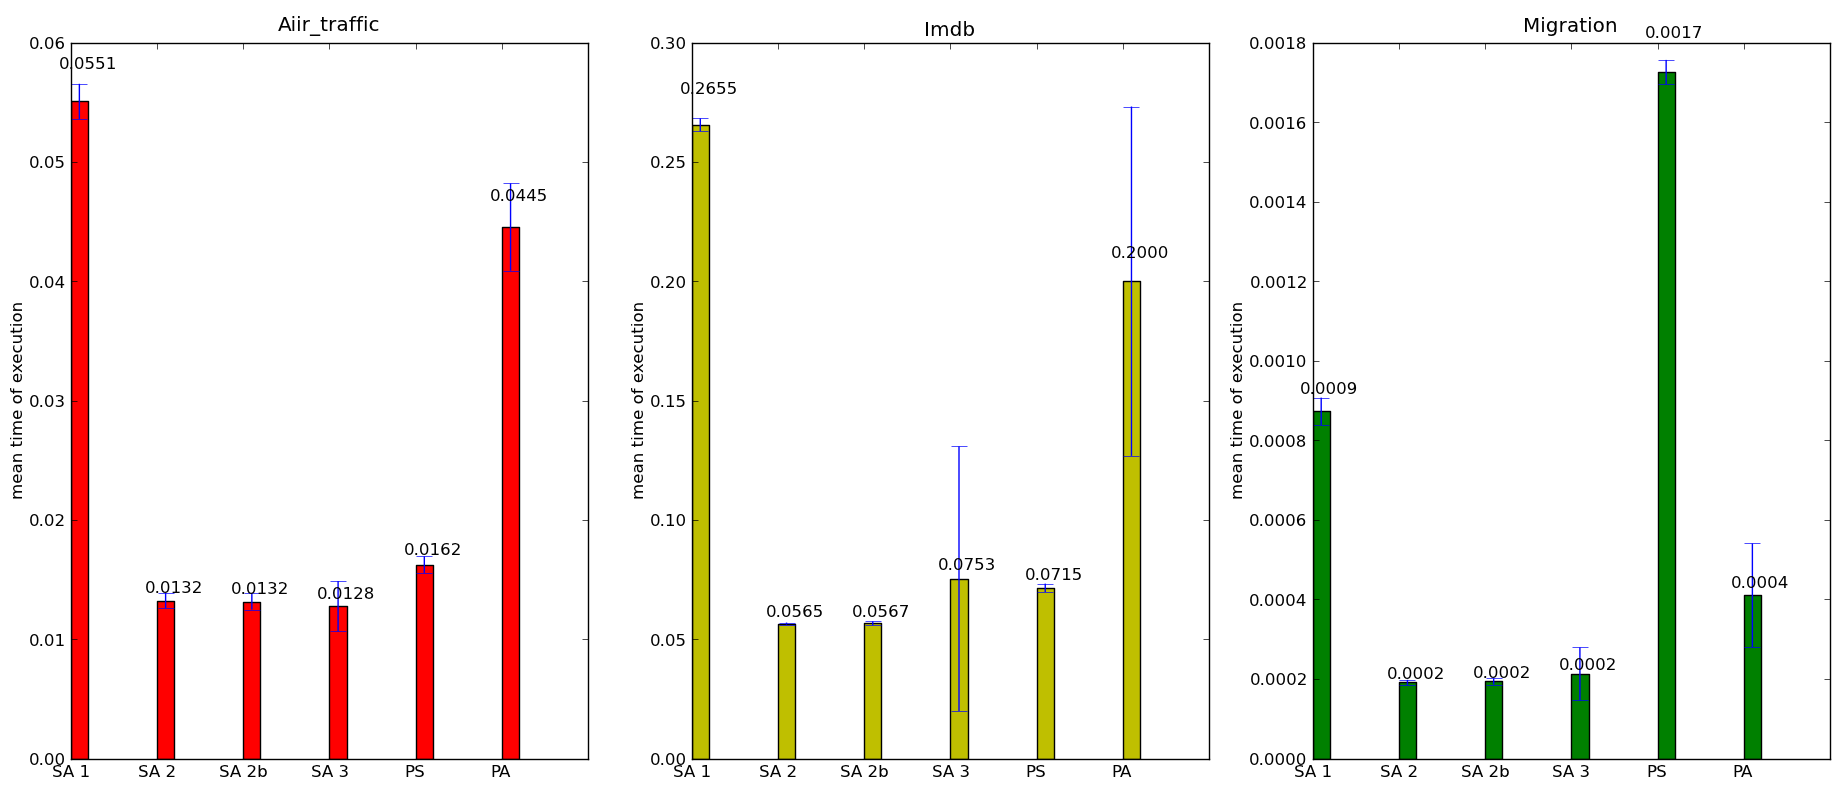
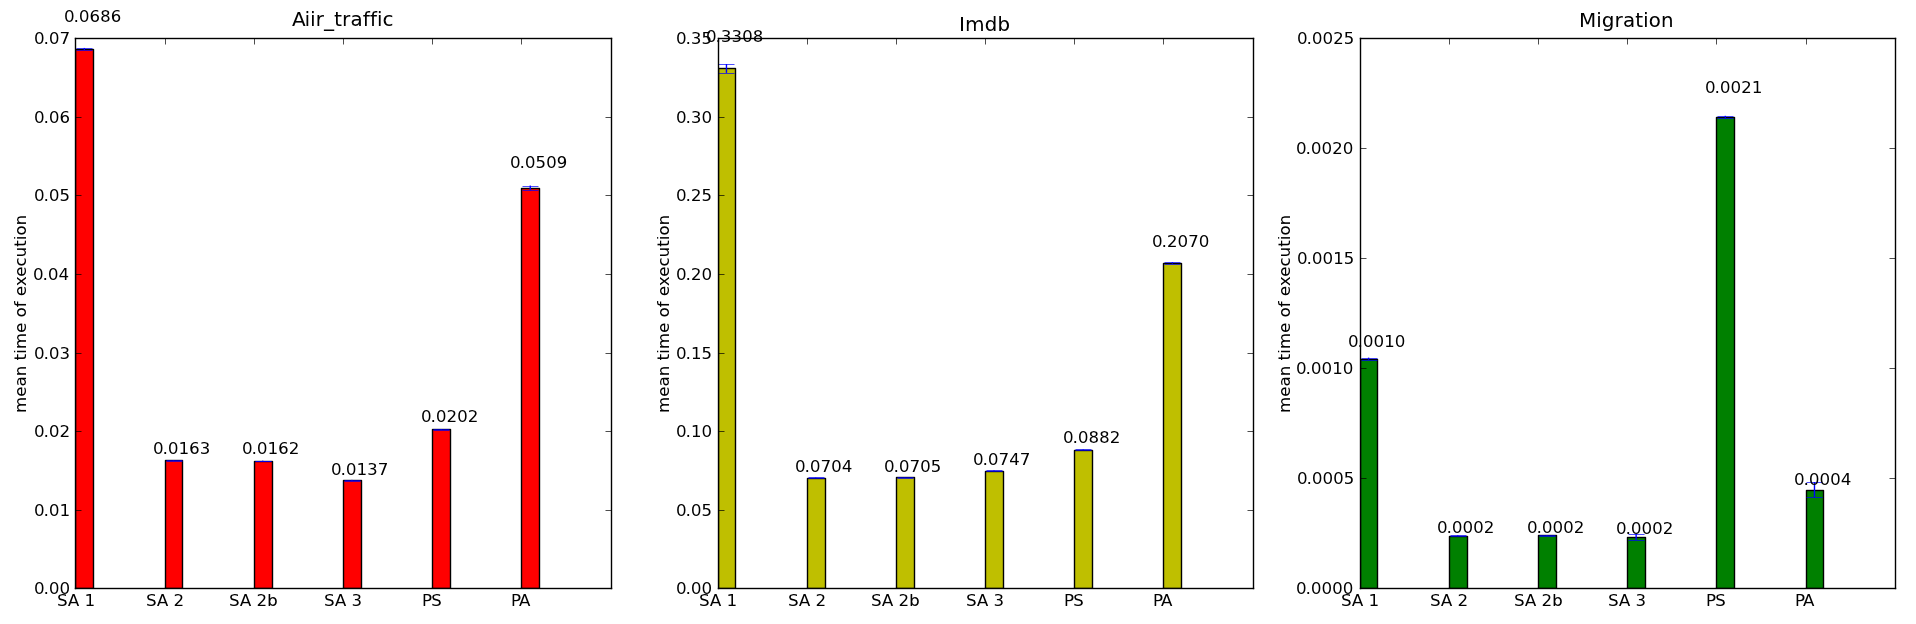
Rapport : modification de l'histogramme (fabriqué avec la vrai simulation cette fois) Src : ajout de la sauvegarde du log du benchmark

diff --git a/src/histogramme.py b/src/histogramme.py
@@ -3,14 +3,14 @@ import numpy as np
 import matplotlib.pyplot as plt
 
 N = 6
-menMeans = (0.0550621, 0.0132359, 0.013154, 0.0127567, 0.0162488, 0.044538, )
-menStd = (0.00147655, 0.000644819, 0.000672862, 0.00211036, 0.000691535, 0.00365513, )
+menMeans = (0.068634, 0.0162732, 0.0162326, 0.0137414, 0.0202103, 0.050945, )
+menStd = (0.000134027, 2.48238e-05, 2.15133e-05, 5.20517e-05, 4.77279e-05, 0.000306196, )
 
-menMeans2 = (0.26552, 0.0565255, 0.0566587, 0.0753496, 0.0715155, 0.199985, )
-menStd2 = (0.00270784, 0.000429853, 0.000815052, 0.0554412, 0.00174922, 0.0731905, )
+menMeans2 = (0.330761, 0.0703849, 0.0705067, 0.074734, 0.0882206, 0.207048, )
+menStd2 = (0.00280537, 0.000108425, 6.23691e-05, 0.000228272, 0.000153175, 0.000457334, )
 
-menMeans3 = (0.000872804, 0.000191297, 0.00019374, 0.000212658, 0.0017259, 0.000410442, )
-menStd3 = (3.43957e-05, 6.44661e-06, 7.71777e-06, 6.65779e-05, 3.03403e-05, 0.000130155, )
+menMeans3 = (0.0010435, 0.000238641, 0.000240193, 0.000233299, 0.00214291, 0.000448204, )
+menStd3 = (4.78756e-06, 1.49911e-06, 1.37312e-06, 1.38273e-05, 4.54968e-06, 3.44309e-05, )
 
 ind = np.arange(N)  # the x locations for the groups
 width = 0.20       # the width of the bars

diff --git a/rapport/src/results.tex b/rapport/src/results.tex
@@ -23,7 +23,7 @@ that we obtain through our different implementations:
 
 \begin{figure}[!h]
   \centering
-  \includegraphics[scale=0.4]{img/histogramme.png}
+  \includegraphics[scale=0.39]{img/histogramme.png}
   \caption{All the mean times of execution}
   \label{histo}
 \end{figure}
@@ -43,7 +43,7 @@ obtained with over 1000 executions of each algorithm. The configuration of the
 computer having done the executions is :
 \begin{description}
 \item {Processor}: Intel Core i5-2410M
-\item {RAM} : DDRIII 6 GB
+\item {RAM}: DDRIII 6 GB
 \end{description}
 
 One can notice that the best implementation is the sequential asynchronous
